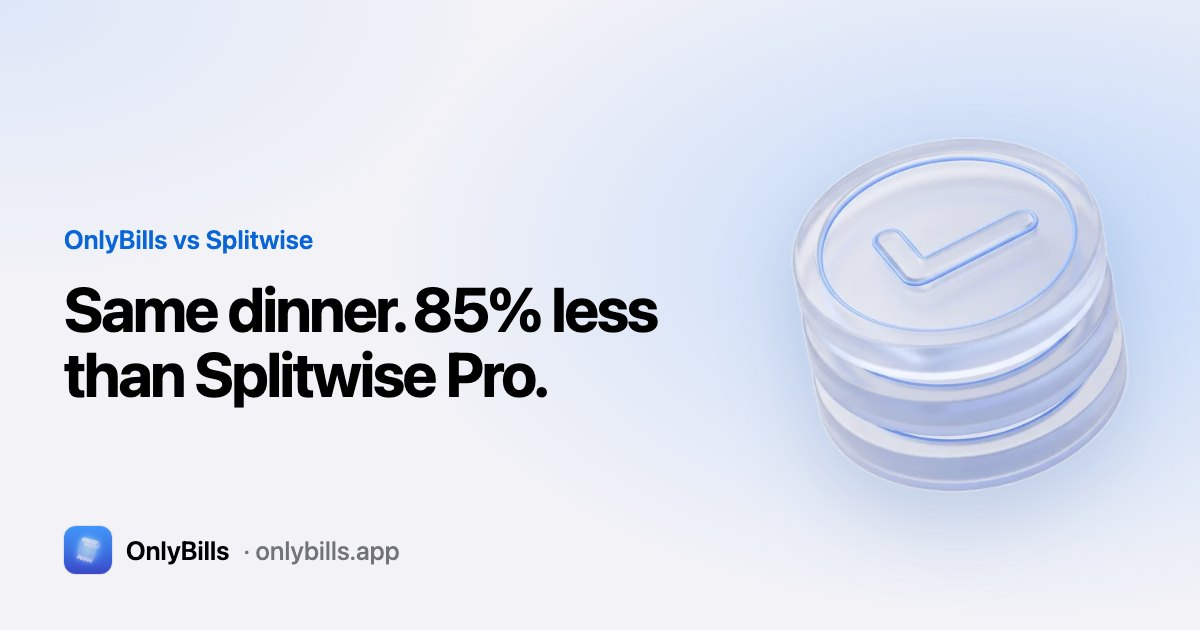
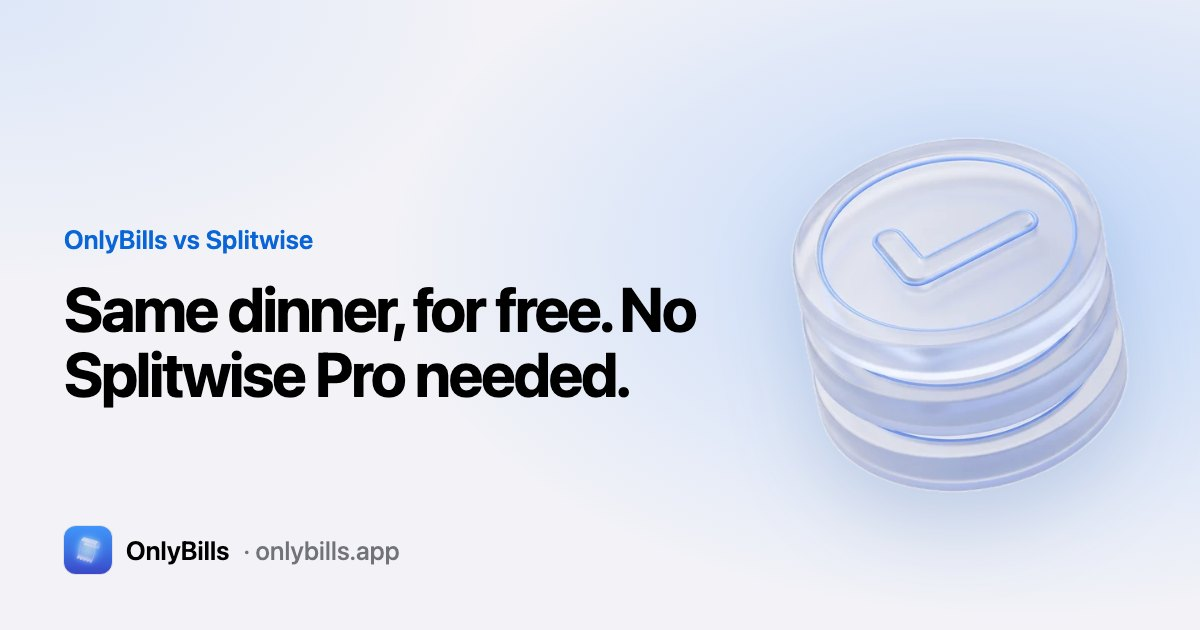
Pricing copy for 2.1: OnlyBills is free, with a fair-use scan limit
Drop the old first-split / £0.99 a month / £5.99 a year / free trial model and
the "85% less than Splitwise Pro" framing across the site (based on the
free-tier branch, 4fff757, with its numbers corrected). Free includes 30
receipt scans in any 30 days, typing a bill in is always unlimited, and the
optional OnlyBills Pro subscription raises the scan limit (up to 250 in 30
days). No Pro price and no "unlimited scans" anywhere. One JSON-LD offer at
£0, /vs/splitwise/ reframed as free vs Splitwise Pro (with Splitwise's free
plan noted), new share image for it, pricing explainer rewritten, and
CONTENT_GUIDE's pricing rules and honest line updated (plus an App Clip note).

Changed region(s): [[0.0617, 0.4524, 0.5858, 0.6635]]

diff --git a/site/static/js/tools.js b/site/static/js/tools.js
@@ -185,7 +185,7 @@ function overpayTool(root) {
     } else {
       result.innerHTML = `<span class="eyebrow">Your estimated overpay</span>
         <div class="big-out">${fmt(yearly).replace('.00', '')}<span style="font-size:0.35em;color:var(--text-2);font-weight:600;margin-left:0.3em">a year</span></div>
-        <p class="lede">That’s about ${fmt(perMeal)} on each meal that’s split equally. OnlyBills costs £5.99 a year, and your first split is free.</p>
+        <p class="lede">That’s about ${fmt(perMeal)} on each meal that’s split equally. OnlyBills is free, and splits the bill by what everyone had.</p>
         <div class="btn-row"><a class="btn btn-primary" href="https://apps.apple.com/gb/app/onlybills/id6754412082" data-cta="overpay-result" rel="noopener">Get OnlyBills</a><button class="btn btn-secondary" type="button" data-copy>Share my number</button></div>
         <p class="foot">An estimate from your answers and our assumptions (much less = 30% under the table average, a bit less = 15%, not drinking adds 15 points). It isn’t a research figure.</p>`;
       $('[data-copy]', result).addEventListener('click', (e) => copy(`Splitting the bill equally costs me about ${fmt(yearly).replace('.00', '')} a year. Work out yours: https://onlybills.app/tools/overpay-calculator/`, e.currentTarget));

diff --git a/site/content/how-to/first-run-and-pricing.md b/site/content/how-to/first-run-and-pricing.md
@@ -1,15 +1,16 @@
 ---
 title: Getting started with OnlyBills, and what it costs
-seoTitle: OnlyBills setup, free first split and subscription explained
-description: What happens when you first open OnlyBills, how the practice scan works, why your first split is free, and what the £0.99 a month or £5.99 a year plans include.
+seoTitle: OnlyBills setup and pricing: free, and what's included
+description: What happens when you first open OnlyBills, how the practice scan works, and what free includes: 30 receipt scans in any 30 days, and unlimited typed-in bills.
 date: 2026-10-21
+updated: 2026-11-01
 order: 9
-summary: First-run setup, the practice scan, your free split and pricing.
+summary: First-run setup, the practice scan and what free includes.
 art: paid
 related: split-a-bill-with-onlybills, get-paid-back, scan-a-receipt
 ---
 
-When you first open OnlyBills it shows a short film of how a split works, asks three quick questions about how your group pays, offers a practice scan, then asks your name and how you'd like to get paid. There's no paywall during setup. Your first real split is free, and the subscription offer appears after it.
+When you first open OnlyBills it says hello with a group chat, shows a short film of how a split works, asks three quick questions about how your group pays, offers a practice scan, then asks your name and how you'd like to get paid. There's nothing to pay and no sign-up. OnlyBills is free, for you and for everyone who joins your table.
 
 ## 1. Watch how it works
 
@@ -33,7 +34,7 @@ That number is an estimate, and the screen says how it's worked out: meals a yea
 
 ## 3. Try a practice scan (optional)
 
-"Try it yourself" lets you scan a pretend receipt on a 3D table and split it with pretend friends. Tap **Try a practice scan**, or **Skip for now**. Nothing is saved, and it doesn't use your free split. You can run it again later from Settings, under Walkthrough.
+"Try it yourself" lets you scan a pretend receipt on a 3D table and split it with pretend friends. Tap **Try a practice scan**, or **Skip for now**. Nothing is saved, and it doesn't count towards your receipt scans. You can run it again later from Settings, under Walkthrough.
 
 ## 4. Add your name and how you get paid
 
@@ -41,41 +42,50 @@ That number is an estimate, and the screen says how it's worked out: meals a yea
 
 Then OnlyBills asks how you'd like to be paid back (Monzo, Starling, Revolut, PayPal or bank details). You can tap **Set up later** and do it from Settings. [How to get paid back](/how-to/get-paid-back/) has the details.
 
-## 5. Your first split is free
+## 5. Split your first real bill
 
-Scan a real receipt and split it whichever way you like. Your first split counts once you finish it: **Done** on the summary, **Finish** on a live table, or saving it with **Just me paying? Save to History**.
+Scan a real receipt, or type the bill in, and split it whichever way you like: share a live table or assign the items yourself. There's no offer to sit through at the end.
 
-Straight after that, OnlyBills shows the Pro offer, headed "That's your first bill split".
+## Is OnlyBills free?
 
-## What does OnlyBills Pro cost?
+Yes. Every feature is free, with no ads and no limits on splitting. Free includes 30 receipt scans in any 30 days. Typing a bill in is always unlimited.
 
-| Plan | Price |
-|---|---|
-| Monthly | £0.99 a month |
-| Yearly | £5.99 a year |
+Everything else is free too: live QR tables, assigning items, payment links, the Owed page and your History. There's no trial, no first-split paywall and nothing to cancel. Friends who join your table never need the app, an account or to pay anything.
 
-Both include a free trial. Before you start, the paywall shows how long the trial is, the price you'll pay after it, and that the plan renews automatically until you cancel. Pro includes unlimited receipt scans, live QR tables and getting paid to your bank.
+### What counts as a receipt scan?
 
-Only the person hosting pays. Friends who join your table never need the app or a subscription.
+A scan counts when OnlyBills reads the receipt and you carry on with it (split it, go live or save it). These don't count:
 
-### What still works without Pro?
+- a photo that couldn't be read
+- scanning the same receipt again within 48 hours
+- the practice scan
 
-After your free split, starting a new split (scanning, manual entry, importing a photo) needs Pro. Your History, past summaries and payment requests, the Owed page, Settings and payout setup all stay open.
+The 30 days roll: each scan stops counting 30 days after you made it. Settings shows your receipt scans, and the home screen tells you quietly when you have 3 or fewer left, with the date they free up again.
 
-### How do I cancel?
+### What happens if I reach the limit?
 
-Cancel in your iPhone's Settings: tap your name, then Subscriptions, then OnlyBills. You keep Pro until the end of the period you've paid for. If you're on a free trial, OnlyBills shows a reminder on the home screen when there are 3 days left and again with 1 day left, saying when the trial ends and whether it will renew.
+Before the camera opens, OnlyBills tells you that free scanning has a fair-use limit of 30 receipts in 30 days, and the date your next scan is free again. You can still type a bill in, and anything you've already started carries on as normal. A scan never stops halfway: if the camera opened, you can finish that split.
+
+### What is OnlyBills Pro?
+
+An optional subscription (monthly or yearly) in Settings, under Membership. It gives higher scan limits, up to 250 receipt scans in 30 days, and helps keep OnlyBills free for everyone. Nothing else is locked behind it: typing bills in, live tables and Owed stay free for everyone. The app shows the price, and that it renews until you cancel, before you pay. Only the host would ever pay.
+
+If you subscribed before OnlyBills went free, you keep Pro and its higher scan limits.
+
+### How do I cancel Pro?
+
+In OnlyBills, open Settings, then Membership, then **Manage subscription**. Or go to your iPhone's Settings, tap your name, then Subscriptions, then OnlyBills. Your higher scan limits carry on to the end of the period you've paid for, then it's back to 30 free scans in 30 days. Everything else stays free.
 
 ## FAQ
 
-### Does the practice scan use up my free split?
-No. Nothing in the practice scan is saved and it doesn't count as your free split.
+### Does the practice scan use up a receipt scan?
+No. Nothing in the practice scan is saved and it never counts.
+
+### Is typing a bill in really unlimited?
+Yes. Enter the items and prices yourself and split as many bills as you like, every month, free.
 
 ### I've changed phones. Do I need to pay again?
-No. On the paywall, tap **Restore** (or **Restore Purchases**) to bring back a subscription you already have on the same Apple Account.
-
-### Do I get another free split if I reinstall?
-No. OnlyBills remembers that you've used it, so deleting and reinstalling the app doesn't give you another one.
+No. OnlyBills is free on any phone. If you have OnlyBills Pro, tap **Restore purchases** on the plans page to bring back a subscription you already have on the same Apple Account.
 
 ### Do my friends have to pay anything?
 No. Friends claim their items and pay you back from a link or QR code. Only the host needs OnlyBills.

diff --git a/site/CONTENT_GUIDE.md b/site/CONTENT_GUIDE.md
@@ -157,6 +157,8 @@ UK advertising rules (CAP code) need claims backed up. So:
   - **share a live table**: friends scan a QR code or open a link and tick the items they had on
     their own phone. No app download needed (it opens on the web or as an App Clip). Everyone
     sees their share add up live, and who's claimed what.
+    On iPhone, the App Clip lets guests join straight from the QR code without downloading the
+    app; anyone else joins in their phone's browser.
   - or **assign items yourself** to each person.
 - Shared items (a bottle of wine, sides) split between the people who shared them. Service charge,
   tips, discounts and other extras are spread across everyone fairly (in proportion). Always exact
@@ -172,13 +174,27 @@ UK advertising rules (CAP code) need claims backed up. So:
   turned off in Settings).
 - Taglines the founder likes: "Take the maths out of special moments." and "Dinners should end with
   great conversations, not 15 minutes working out the bill."
-- Versus Splitwise Pro (UK App Store, Oct 2026: £3.99 a month, £39.99 a year): OnlyBills is nearly 7x
-  cheaper a year (£5.99 vs £39.99, save £34), and a whole year costs less than two months of Pro.
+- Versus Splitwise Pro (UK App Store, Oct 2026: £3.99 a month, £39.99 a year): OnlyBills is free.
+  Be fair: Splitwise has a free plan too (with a daily cap on new expenses), so compare free with
+  free and Pro with Pro, and never imply Splitwise has no free plan.
   Nobody signs up for OnlyBills, host included; Splitwise needs an account. The full comparison
   lives at /vs/splitwise/. Tone can be bold and salesy, but every claim
   about Splitwise not doing something must be true.
-- Price: your first split is free. Then £0.99 a month or £5.99 a year (with a free trial).
-  Never obscure price, trial or renewal.
+- Price: OnlyBills is free. Lead with "free" (headlines, heroes, CTAs, share images) and don't put
+  prices, "Pro" or the scan allowance in headlines. There's no first-split paywall, no trial, no
+  sign-up and nothing is locked. Everything is free: manual entry, live tables, Owed, History,
+  payment links.
+- Receipt scanning has a fair-use limit: 30 receipt scans in any 30 days (rolling, not a calendar
+  month). Rescanning the same receipt within 48 hours doesn't count, and nor does the practice scan
+  or a photo that couldn't be read. Typing a bill in is always unlimited.
+- The optional subscription is **OnlyBills Pro** (monthly or yearly). It gives higher scan limits
+  (up to 250 receipt scans in 30 days) and helps keep the app free. It gates nothing else.
+- The one honest line: wherever cost is explained (FAQ answers, the pricing explainer at
+  /how-to/first-run-and-pricing/, comparison tables), say plainly: "Free includes 30 receipt scans
+  in any 30 days. Typing a bill in is always unlimited. OnlyBills Pro, optional, raises the scan
+  limit."
+- Never call scanning "unlimited" (free or Pro), and never say "free unlimited scans". Don't quote
+  a price for OnlyBills Pro on the site; the app shows the real price and renewal before you pay.
 - App Store: https://apps.apple.com/app/onlybills/id6754412082
 - Don't claim: Android, multiple currencies, splitting rent/utilities as a household bills app,
   automatic bank integration, payment processing by OnlyBills itself (it hands off to the bank or

diff --git a/site/content/blog/splitwise-alternatives.md b/site/content/blog/splitwise-alternatives.md
@@ -3,7 +3,7 @@ title: Splitwise alternatives: the best bill splitting apps in 2026
 seoTitle: Splitwise alternatives: best bill splitting apps UK (2026)
 description: Tricount, Settle Up, Splid, Tab, your bank's split button and OnlyBills compared with Splitwise: features, UK prices and who each bill splitting app suits.
 date: 2026-10-02
-updated: 2026-10-20
+updated: 2026-11-01
 category: Comparisons
 art: receipts
 related: split-bill-monzo-revolut-starling, split-bill-on-holiday, split-bill-iphone
@@ -25,7 +25,7 @@ Most "best app" lists mix those two jobs up. This one doesn't. Below is what eac
 | Splid | Holidays, offline use, lots of currencies | No | No sign-up needed for groups | Free; Splid Plus £3.99 |
 | Tab | One bill, everyone already has the app | Yes | No, each person needs Tab | Free |
 | Monzo, Revolut, Starling | Splitting one card payment you already made | No | Friends at other banks can pay by link (Revolut's split button is Revolut-only) | Free |
-| OnlyBills | One UK restaurant bill, split by what each person had | Yes (AI receipt reading) | Yes: a link or QR code opens on the web or as an App Clip | First split free, then £0.99 a month or £5.99 a year, with a free trial |
+| OnlyBills | One UK restaurant bill, split by what each person had | Yes (AI receipt reading) | Yes: a link or QR code opens on the web or as an App Clip | Free (30 receipt scans in any 30 days, typing a bill in unlimited); optional Pro for higher scan limits |
 
 ## Which app should you use?
 
@@ -97,7 +97,7 @@ With a live table, friends scan a QR code or open a link and tick what they had 
 
 :::shot guest-01-join | Friends join from a link or QR code and pick their name. No app download.
 
-**What it costs:** your first split is free, then £0.99 a month or £5.99 a year, with a free trial. The host needs an iPhone or iPad; friends join from their browser.
+**What it costs:** free, with no sign-up. Free includes 30 receipt scans in any 30 days. Typing a bill in is always unlimited. OnlyBills Pro, an optional subscription, raises the scan limit. The host needs an iPhone or iPad; friends join from their browser.
 
 **Not for:** rent, household bills or tracking a whole trip's costs. Use Splitwise, Tricount or Splid for those.
 

diff --git a/site/content/how-to/split-a-bill-with-onlybills.md b/site/content/how-to/split-a-bill-with-onlybills.md
@@ -60,10 +60,10 @@ Tick people off as they pay. When you tap **Done** (or **Finish** on a live tabl
 No. If you share a live table, friends open it in their browser or as an App Clip on iPhone. If you assign items yourself, they don't need to do anything until your payment request arrives.
 
 ### What does OnlyBills cost?
-Your first split is free. After that it's £0.99 a month or £5.99 a year, with a free trial. The paywall shows the trial length and price before you start, and you can cancel any time in your iPhone's Settings.
+It's free, with no sign-up. Free includes 30 receipt scans in any 30 days. Typing a bill in is always unlimited. If you scan a lot, the optional OnlyBills Pro subscription raises the scan limit. [What free includes](/how-to/first-run-and-pricing/) has the details.
 
 ### Can I practise before a real bill?
-Yes. During setup you can try a practice scan on a pretend receipt, and you can replay it any time from Settings under Walkthrough. Nothing is saved, and it doesn't use your free split.
+Yes. During setup you can try a practice scan on a pretend receipt, and you can replay it any time from Settings under Walkthrough. Nothing is saved, and it doesn't count towards your receipt scans.
 
 ### Can I change the bill after I've split it?
 Yes. On the summary, tap **Edit** or **Edit items & charges** to change items, prices and charges. The shares update to match.

diff --git a/site/content/blog/splitting-the-bill-equally-cost.md b/site/content/blog/splitting-the-bill-equally-cost.md
@@ -122,7 +122,7 @@ You don't need to audit the receipt in front of everyone. A few things that work
 
 :::cta Pay for what you had, without the maths
 
-OnlyBills does that last part for you. Scan the receipt, and either share a live table where friends tick what they had on their own phone (no app download needed), or assign items yourself. Shared things like a bottle of wine split between the people who had them, and the service charge is spread fairly in proportion. Everyone pays you back with a link. Your first split is free, then it's £0.99 a month or £5.99 a year (with a free trial).
+OnlyBills does that last part for you. Scan the receipt, and either share a live table where friends tick what they had on their own phone (no app download needed), or assign items yourself. Shared things like a bottle of wine split between the people who had them, and the service charge is spread fairly in proportion. Everyone pays you back with a link. It's free, with no sign-up.
 
 :::shot guest-05-live | Each person sees their own share add up as they tick items.
 

diff --git a/site/content/blog/split-service-charge-fairly.md b/site/content/blog/split-service-charge-fairly.md
@@ -128,7 +128,7 @@ On a table where orders are close, the difference is pennies. It grows with the 
 
 :::cta Exact to the penny, every time
 
-OnlyBills does all of this automatically. Scan the receipt, share a live table, and each person ticks what they had. Service charge, tips and discounts are spread across everyone in proportion, and the shares always add up exactly to the bill. Friends pay you back with a link through Monzo, Starling, Revolut, PayPal or a bank transfer, and they don't need your bank's app. Your first split is free.
+OnlyBills does all of this automatically. Scan the receipt, share a live table, and each person ticks what they had. Service charge, tips and discounts are spread across everyone in proportion, and the shares always add up exactly to the bill. Friends pay you back with a link through Monzo, Starling, Revolut, PayPal or a bank transfer, and they don't need your bank's app. It's free, with no sign-up.
 
 :::shot guest-05-live | Each share includes its fair part of the service charge.
 

diff --git a/site/content/blog/how-to-split-the-bill-at-a-restaurant.md b/site/content/blog/how-to-split-the-bill-at-a-restaurant.md
@@ -106,7 +106,7 @@ If someone still hasn't paid by the next day, a light nudge is fine. [How to ask
 
 :::cta One card at the table, everyone settled before you leave
 
-With OnlyBills, the person paying scans the receipt and shares a live table. Friends open a link or scan a QR code, tick what they had on their own phone (no download needed), and see their exact share, service included. Then they pay you back with a Monzo, Starling, Revolut or PayPal link, or by bank transfer from any banking app. Your first split is free, then £0.99 a month or £5.99 a year (with a free trial).
+With OnlyBills, the person paying scans the receipt and shares a live table. Friends open a link or scan a QR code, tick what they had on their own phone (no download needed), and see their exact share, service included. Then they pay you back with a Monzo, Starling, Revolut or PayPal link, or by bank transfer from any banking app. It's free, with no sign-up.
 
 ## What if someone has to leave early?
 

diff --git a/site/content/blog/christmas-party-split-bill.md b/site/content/blog/christmas-party-split-bill.md
@@ -105,7 +105,7 @@ With friends, the same method works. Two extra points:
 
 :::cta Fourteen people, one receipt, every share exact
 
-OnlyBills reads the receipt from a photo. Share a live table and each person ticks their menu, their drinks or the package on their own phone, no download needed. Shared bottles split between whoever ticked them, and service is spread in proportion, exact to the penny. Friends pay you back by Monzo, Starling, Revolut or PayPal link, or bank transfer. Your first split is free, then £0.99 a month or £5.99 a year (with a free trial).
+OnlyBills reads the receipt from a photo. Share a live table and each person ticks their menu, their drinks or the package on their own phone, no download needed. Shared bottles split between whoever ticked them, and service is spread in proportion, exact to the penny. Friends pay you back by Monzo, Starling, Revolut or PayPal link, or bank transfer. It's free, with no sign-up.
 
 ## FAQ
 

diff --git a/site/content/blog/cost-of-going-out-uk.md b/site/content/blog/cost-of-going-out-uk.md
@@ -109,7 +109,7 @@ For more on chasing it politely, see [how to ask a friend to pay you back](/blog
 
 :::cta Pay for what you had, and settle up the same night
 
-OnlyBills makes fairer splitting the easy option. Scan the receipt and share a live table: friends tick what they had on their own phone (no app download needed) and see their share add up. Shared dishes split between whoever shared them. Everyone pays you back with a link, and Owed keeps track of who still owes you. Your first split is free, then £0.99 a month or £5.99 a year (with a free trial).
+OnlyBills makes fairer splitting the easy option. Scan the receipt and share a live table: friends tick what they had on their own phone (no app download needed) and see their share add up. Shared dishes split between whoever shared them. Everyone pays you back with a link, and Owed keeps track of who still owes you. It's free, with no sign-up.
 
 ## If you're the friend who can't afford it
 

diff --git a/site/content/blog/split-bill-when-some-dont-drink.md b/site/content/blog/split-bill-when-some-dont-drink.md
@@ -103,7 +103,7 @@ Sometimes the table just wants to split it and move on. A few options:
 
 :::cta Food split, drinks to whoever had them
 
-This is the kind of split OnlyBills is built for. Scan the receipt, then share a live table: everyone ticks their own drinks and the dishes they shared, on their own phone, without downloading anything. A bottle of wine splits between the people who ticked it. The service charge spreads in proportion. Your first split is free, then £0.99 a month or £5.99 a year (with a free trial).
+This is the kind of split OnlyBills is built for. Scan the receipt, then share a live table: everyone ticks their own drinks and the dishes they shared, on their own phone, without downloading anything. A bottle of wine splits between the people who ticked it. The service charge spreads in proportion. It's free, with no sign-up.
 
 :::shot guest-02-claimed | Each person ticks only the drinks and dishes they had.
 

diff --git a/site/content/blog/is-splitting-the-bill-equally-fair.md b/site/content/blog/is-splitting-the-bill-equally-fair.md
@@ -120,7 +120,7 @@ That last one is worth saying out loud more often. People who ordered less rarel
 
 :::cta Make paying by item as easy as splitting
 
-The main reason people split equally when they shouldn't is that itemising is a pain. OnlyBills takes that away. Scan the receipt and share a live table: friends tick what they had on their own phone, without downloading anything. Shared dishes split between whoever shared them, and service charge is spread fairly. Your first split is free, then it's £0.99 a month or £5.99 a year (with a free trial).
+The main reason people split equally when they shouldn't is that itemising is a pain. OnlyBills takes that away. Scan the receipt and share a live table: friends tick what they had on their own phone, without downloading anything. Shared dishes split between whoever shared them, and service charge is spread fairly. It's free, with no sign-up.
 
 ## A fair split, step by step
 
